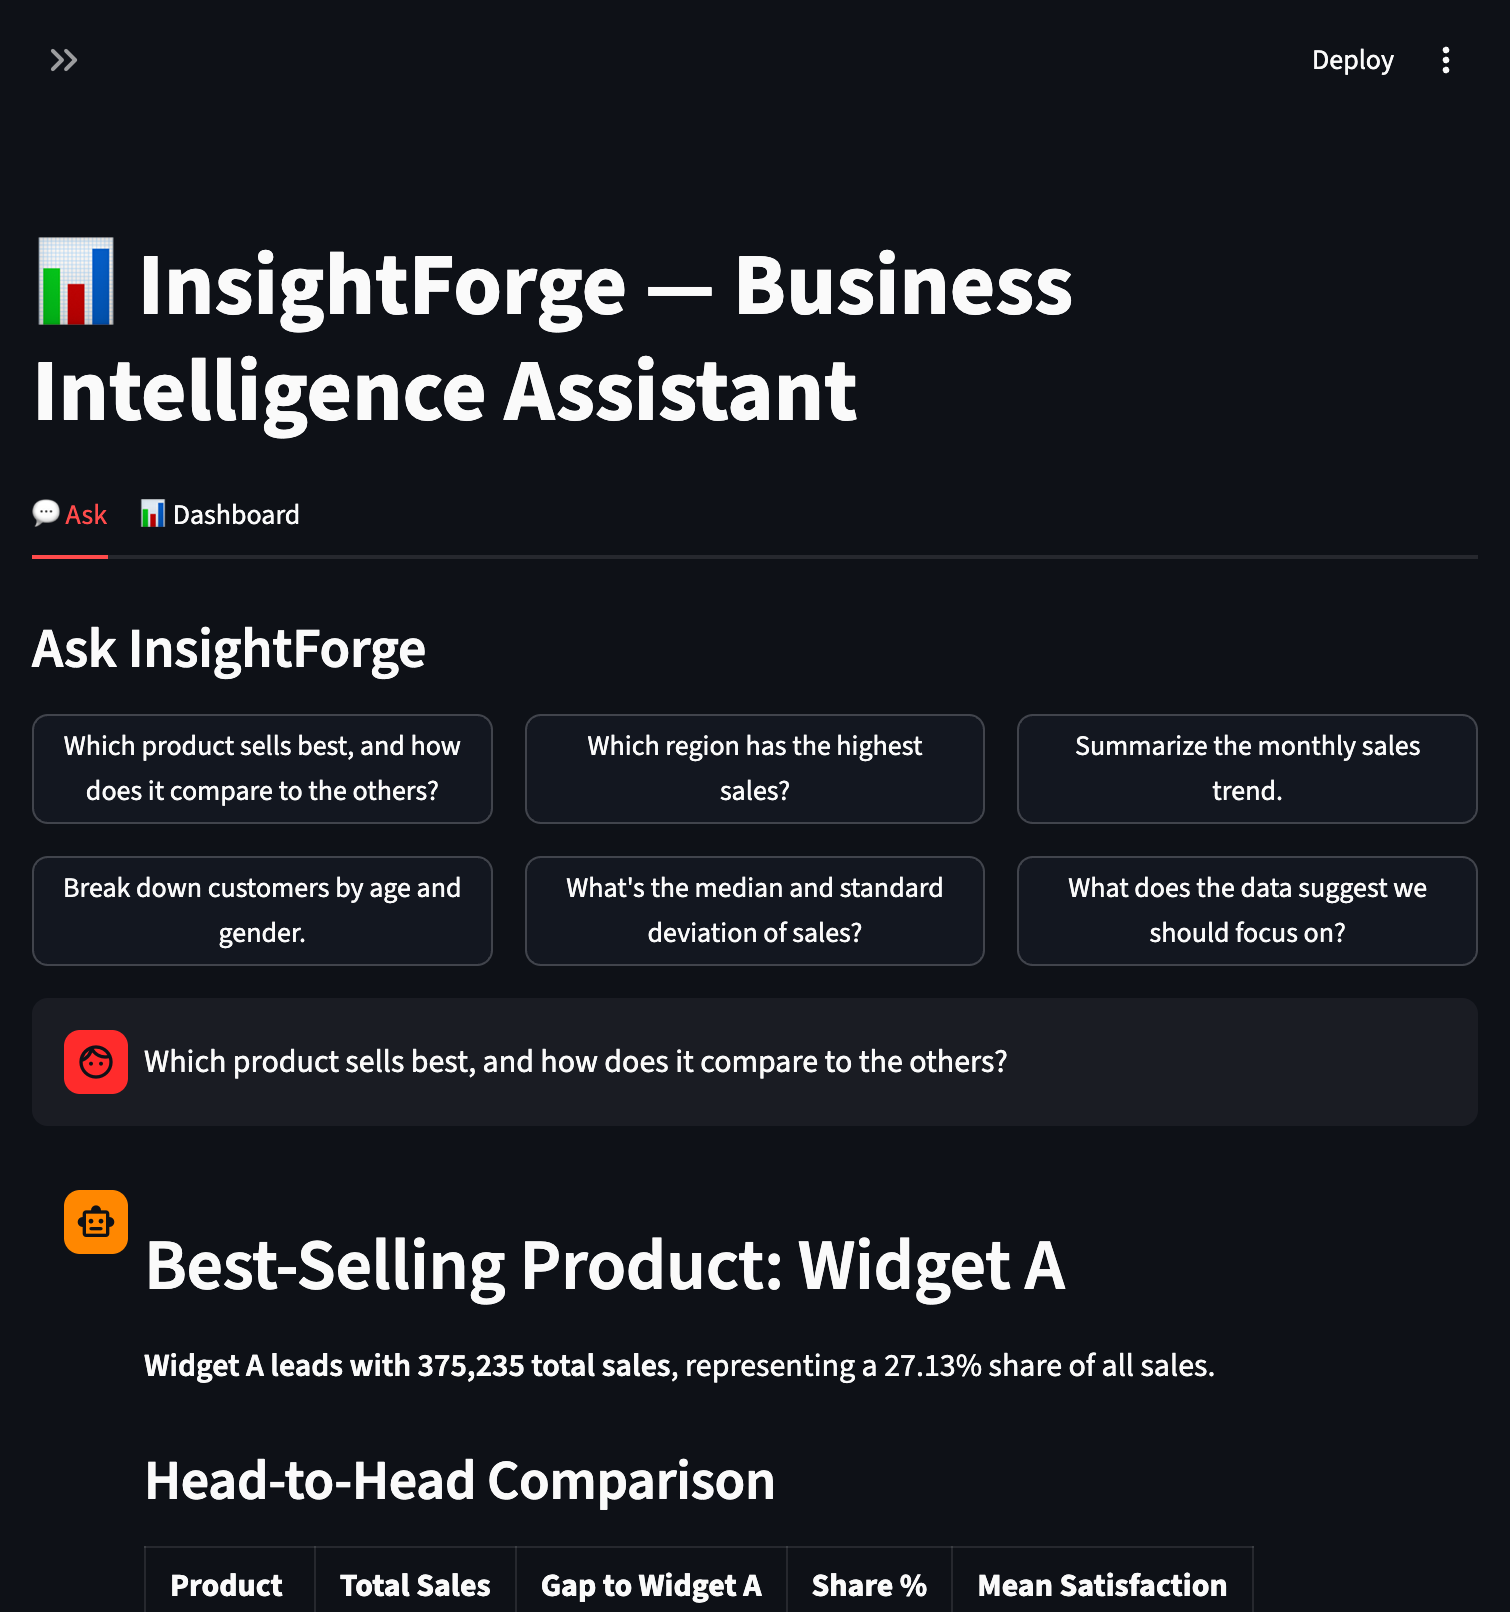
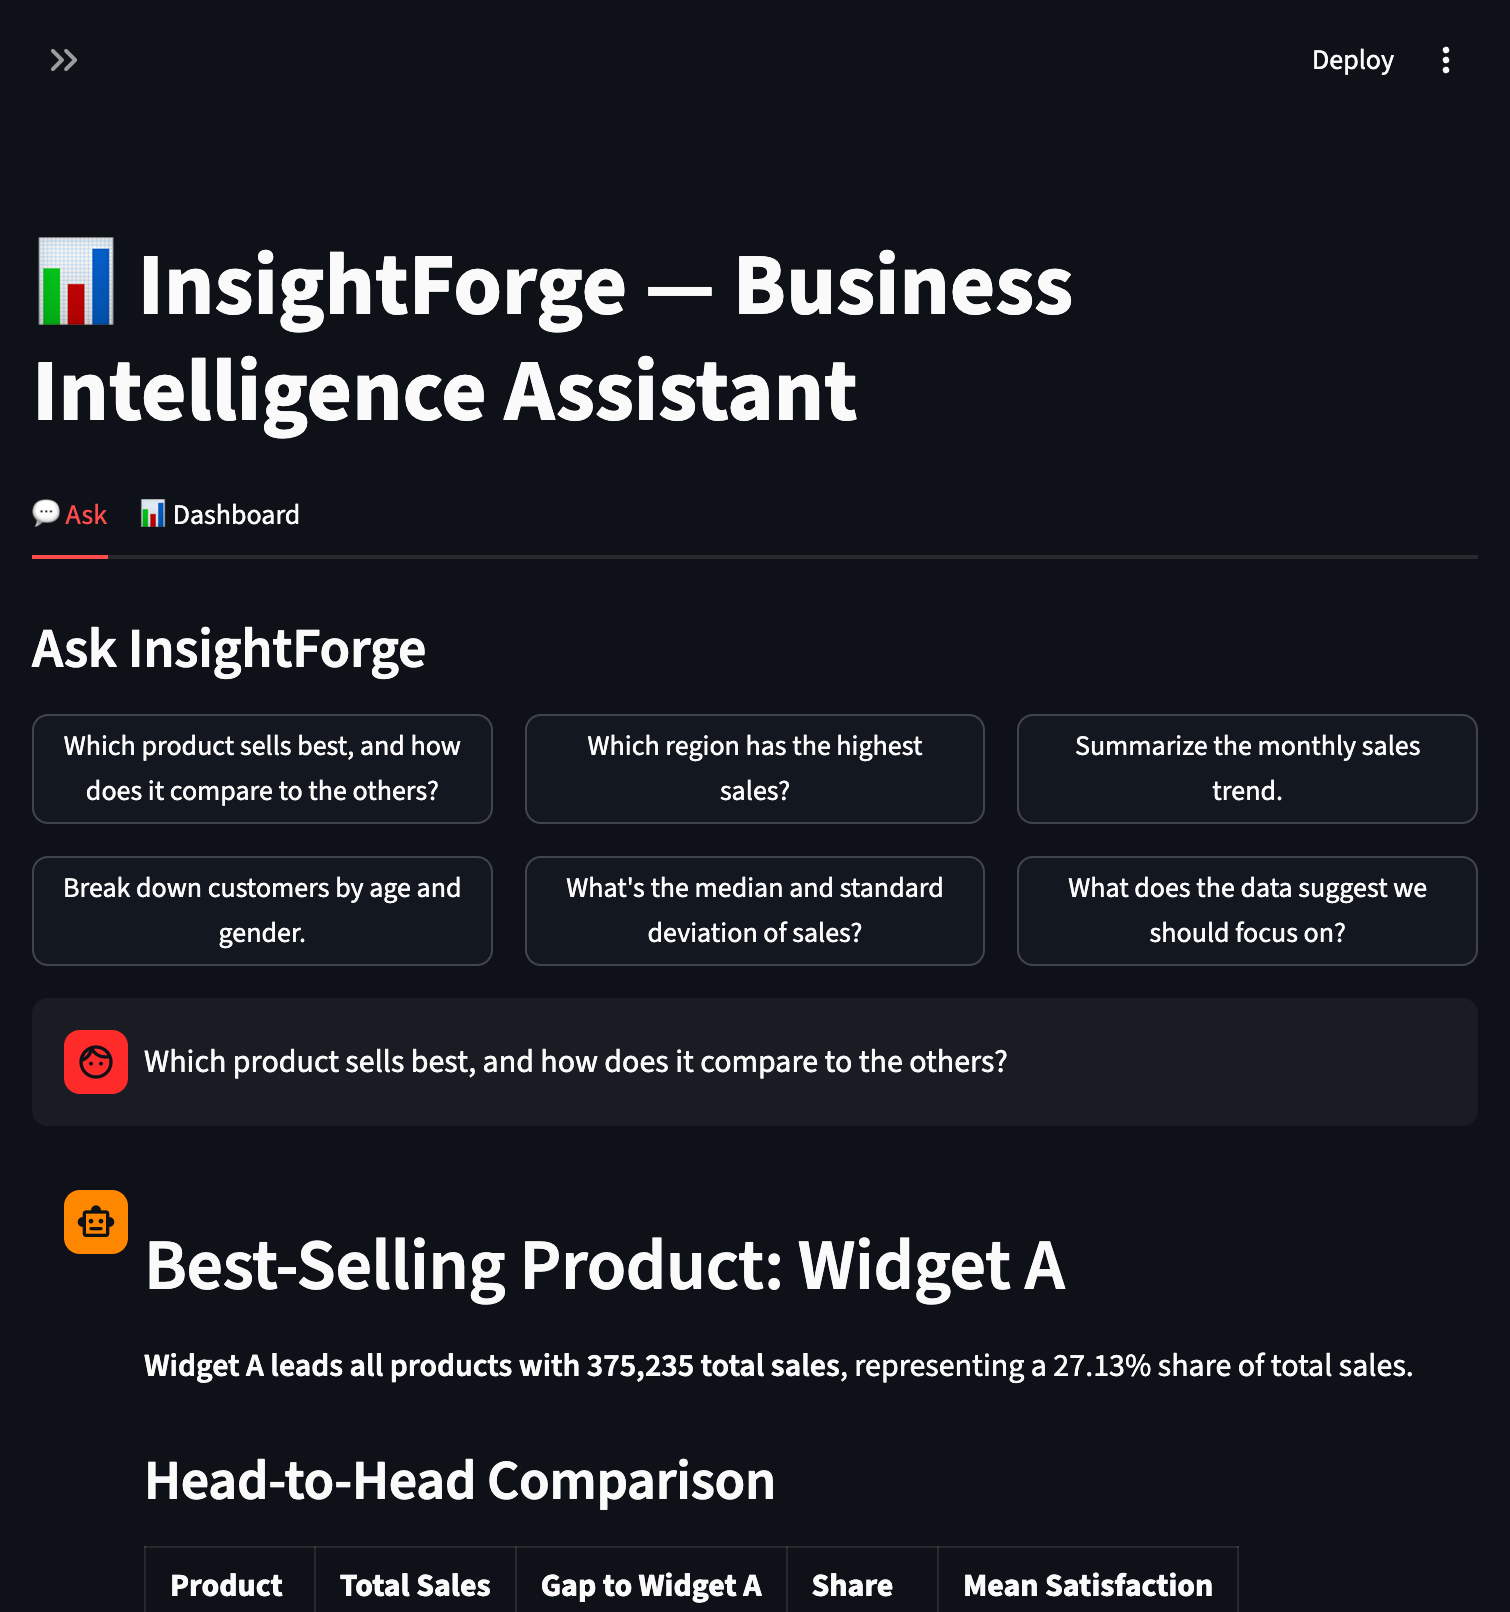
UX pass: answer-linked charts, landing insights, concise trend block
Make the experience match the rigor:
- Answer-linked charts: each answer now renders the matching visualization inline (time
  -> trend, product/region -> bars, demographics -> split), so you see the figure AND the
  picture together instead of switching to a separate tab.
- Landing key insights: the Ask tab opens with a deterministic, grounded summary (top
  product/region + shares, peak month, the satisfaction-vs-sales opportunity) so the first
  screen delivers value instead of an empty chat.
- Concise time block: the trend stat block now renders yearly totals + peak/trough + a
  PRECOMPUTED growth %, so a phrased trend answer stays grounded (and the fallback is
  readable) instead of dumping ~83 monthly rows.

+2 tests (insights), still lint-clean and CI-enforced (30 tests).

Changed region(s): [[0.2179, 0.8375, 0.9338, 0.8685], [0.5914, 0.9615, 0.8093, 0.9926]]

diff --git a/insights.py b/insights.py
@@ -1,0 +1,39 @@
+"""Auto-surfaced key insights — a deterministic, grounded summary for the landing screen.
+
+Computed straight from analytics (no LLM), so the app opens with the few things actually
+worth noticing in the data — top product/region with shares, the peak month, and the
+satisfaction-vs-sales tension — every figure traceable, consistent with the rest of the
+system. This is the "access insights" part of the brief, made the first thing you see.
+"""
+
+import analytics
+
+
+def key_insights() -> list[str]:
+    ov = analytics.overview()
+    prod = analytics.sales_by_product()
+    region = analytics.sales_by_region()
+    months = analytics.sales_by_period(freq="month")
+    peak = months.loc[months["total_sales"].idxmax()]
+
+    top_p = prod.iloc[0]
+    top_r = region.iloc[0]
+    best_sat = prod.sort_values("mean_satisfaction", ascending=False).iloc[0]
+
+    out = [
+        f"**Top product:** {top_p['Product']} — {top_p['share_pct']}% of sales "
+        f"({int(top_p['total_sales']):,}), ahead of the lowest by "
+        f"{int(prod.iloc[-1]['gap_to_leader']):,}.",
+        f"**Top region:** {top_r['Region']} — {top_r['share_pct']}% of sales "
+        f"({int(top_r['total_sales']):,}).",
+        f"**Peak month:** {peak['YearMonth']} at {int(peak['total_sales']):,} in sales.",
+        f"**Overall:** {ov['total_sales']:,} total sales across {ov['rows']:,} records "
+        f"(mean {ov['mean_sales']}, median {ov['median_sales']}).",
+    ]
+    # The interesting tension: best-seller isn't always best-rated.
+    if best_sat["Product"] != top_p["Product"]:
+        out.append(
+            f"**Worth a look:** {best_sat['Product']} has the highest satisfaction "
+            f"({best_sat['mean_satisfaction']}) but isn't the top seller — a possible "
+            f"under-marketed opportunity.")
+    return out

diff --git a/app.py b/app.py
@@ -14,9 +14,18 @@ import streamlit as st
 import analytics
 import config
 import evaluation
+import insights
 import rag
 import viz
 from memory import ConversationMemory
+
+# Which retrieved statistic maps to which chart — so an answer shows the matching picture
+# inline, not one tab away. (overview borrows the trend; stats is numbers-only.)
+STAT_CHART = {
+    "time": viz.sales_trend, "product": viz.product_performance,
+    "region": viz.regional_analysis, "demographics": viz.customer_demographics,
+    "overview": viz.sales_trend,
+}
 
 st.set_page_config(page_title="InsightForge — BI Assistant", page_icon="📊", layout="wide")
 
@@ -72,6 +81,12 @@ def _render_turn(turn):
         st.markdown(turn["q"])
     with st.chat_message("assistant"):
         st.markdown(turn["answer"])
+        # Show the chart that matches what was retrieved — the answer and the picture
+        # together, the way an analyst would present it.
+        for sid in turn.get("stats_used", []):
+            if sid in STAT_CHART:
+                st.pyplot(STAT_CHART[sid]())
+                break
         cites = turn.get("citations") or []
         if cites:
             st.caption("Sources: " + " · ".join(f"{c['source']} (p.{c['page']})" for c in cites))
@@ -84,6 +99,13 @@ def _render_turn(turn):
 def tab_ask():
     st.subheader("Ask InsightForge")
     mem = _memory()
+    # Open with value: deterministic key insights, so the first screen orients the user
+    # instead of showing an empty chat. Hidden once a conversation starts.
+    if not st.session_state.get("history"):
+        st.markdown("**Key insights from your data**")
+        for line in insights.key_insights():
+            st.markdown(f"- {line}")
+        st.caption("Or ask your own question:")
     cols = st.columns(3)
     pending = None
     for i, ex in enumerate(EXAMPLES):

diff --git a/analytics.py b/analytics.py
@@ -122,8 +122,11 @@ def stat_blocks(df: pd.DataFrame | None = None) -> list[dict]:
     df = _df() if df is None else df
     ov = overview(df)
     months = sales_by_period(df, "month")
+    years = sales_by_period(df, "year")
     peak = months.loc[months["total_sales"].idxmax()]
     trough = months.loc[months["total_sales"].idxmin()]
+    first, last = months.iloc[0], months.iloc[-1]   # months is chronological
+    growth = _round((last["total_sales"] - first["total_sales"]) / first["total_sales"] * 100)
     seg = customer_segmentation(df)
     stats = statistical_measures(df)
     prod, region = sales_by_product(df), sales_by_region(df)
@@ -137,11 +140,17 @@ def stat_blocks(df: pd.DataFrame | None = None) -> list[dict]:
                   f"min: {ov['min_sales']}, max: {ov['max_sales']}. "
                   f"Mean customer satisfaction: {ov['mean_satisfaction']} (1-5). "
                   f"Mean customer age: {ov['mean_age']}.")},
-        {"id": "time", "title": "Sales by time period (monthly trend)",
-         "tags": "time period month monthly trend over time growth seasonal peak best worst month when",
-         "text": (f"Monthly total sales:\n{_tbl(months)}\n"
-                  f"Peak month: {peak['YearMonth']} ({int(peak['total_sales'])}). "
-                  f"Lowest month: {trough['YearMonth']} ({int(trough['total_sales'])}).")},
+        {"id": "time", "title": "Sales by time period (trend)",
+         "tags": "time period month monthly yearly trend over time growth seasonal peak best worst month year when",
+         # Concise on purpose: yearly totals + peak/trough + a PRECOMPUTED growth figure,
+         # so a phrased trend summary stays grounded (and the fallback stays readable). The
+         # full monthly series drives the chart, not this text.
+         "text": (f"Yearly total sales:\n{_tbl(years)}\n"
+                  f"Peak month: {peak['YearMonth']} ({int(peak['total_sales'])}); "
+                  f"lowest: {trough['YearMonth']} ({int(trough['total_sales'])}). "
+                  f"First month {first['YearMonth']}: {int(first['total_sales'])}; "
+                  f"latest {last['YearMonth']}: {int(last['total_sales'])} "
+                  f"({growth}% change first-to-latest).")},
         {"id": "product", "title": "Sales by product",
          "tags": "product widget which product best worst top selling performance compare products",
          "text": (f"Sales by product (sorted by total):\n{_tbl(prod)}\n"

diff --git a/tests/test_insights.py b/tests/test_insights.py
@@ -1,0 +1,19 @@
+"""Landing key-insights — deterministic, grounded summary lines."""
+
+import insights
+
+
+def test_key_insights_are_present_and_grounded():
+    lines = insights.key_insights()
+    assert len(lines) >= 4
+    blob = " ".join(lines)
+    assert "Widget A" in blob                 # the real top product
+    assert "1,383,220" in blob                # the real total, formatted
+    assert "%" in blob                        # shares surfaced
+
+
+def test_satisfaction_tension_insight_surfaces():
+    # Widget D is the highest-satisfaction product but not the top seller — the insight
+    # generator should flag that opportunity.
+    blob = " ".join(insights.key_insights())
+    assert "Worth a look" in blob and "Widget D" in blob

diff --git a/README.md b/README.md
@@ -13,8 +13,9 @@ Built for the Applied GenAI capstone, then extended toward a system you'd actual
 > capstone's third-party papers aren't redistributed here; see `data/sources/README.md`).
 > The quantitative assistant works fully without them.
 
-![InsightForge: a grounded answer with the exact figures + an inline "how I answered this"
-panel, alongside the dashboard.](docs/demo.png)
+![InsightForge: a grounded answer with exact figures and a cited recommendation, the
+matching chart rendered inline, and a "how I answered this" provenance panel — the app
+also opens with auto-surfaced key insights.](docs/demo.png)
 
 ## The one idea worth taking away
 
@@ -66,9 +67,10 @@ computed statistics rendered directly, grounded by construction.
 | `grounding.py` | numeric-grounding gate (no fabricated figures) |
 | `rag.py` | dual retrieval → chained prompt → grounded synthesis → citations |
 | `memory.py` | conversation memory across turns |
+| `insights.py` | deterministic, grounded "key insights" for the landing screen |
 | `viz.py` | the four required charts (trend, product, region, demographics) |
 | `evaluation.py` | QAEvalChain + deterministic gates over a versioned, computed-reference set |
-| `app.py` | Streamlit: chat (with provenance) + dashboard |
+| `app.py` | Streamlit: chat with **answer-linked charts** + provenance, landing insights, dashboard |
 
 ## Rubric coverage — every item, several exceeded
 
@@ -83,7 +85,7 @@ computed statistics rendered directly, grounded by construction.
 | QAEvalChain evaluation | `evaluation.py` |
 | Visualizations (4 required) | `viz.py` |
 | Streamlit UI | `app.py` |
-| **Exceeds** | numeric-grounding gate · second cited RAG over BI literature · versioned computed-reference eval set · lint+CI · 28 offline tests |
+| **Exceeds** | numeric-grounding gate · second cited RAG over BI literature · versioned computed-reference eval set · lint+CI · 30 offline tests |
 
 ## Run it
 
@@ -101,7 +103,7 @@ computed statistics directly (and the dashboard is fully offline regardless).
 ## Verify
 
 ```bash
-.venv/bin/python -m pytest          # 28 tests, no API key needed (fully offline)
+.venv/bin/python -m pytest          # 30 tests, no API key needed (fully offline)
 .venv/bin/python evaluation.py      # deterministic gates only (offline)
 USE_LLM=1 .venv/bin/python evaluation.py   # + QAEvalChain correctness
 ```

diff --git a/WRITEUP.md b/WRITEUP.md
@@ -68,7 +68,7 @@ answer ship, grounded.
 
 - All required capabilities work end-to-end. On the versioned eval set: **retrieval
   hit-rate@k 1.0, numeric grounding 1.0**, and LangChain **QAEvalChain correctness 1.0**.
-- **28 automated tests pass with no API call** — analytics figures, the grounding gate,
+- **30 automated tests pass with no API call** — analytics figures, the grounding gate,
   both retrievers, the RAG path (incl. a stubbed-LLM test proving fabricated numbers fall
   back), memory, eval, and the charts are all verifiable offline.
 - The assistant answers comparative questions with exact, grounded figures (shares, gaps,